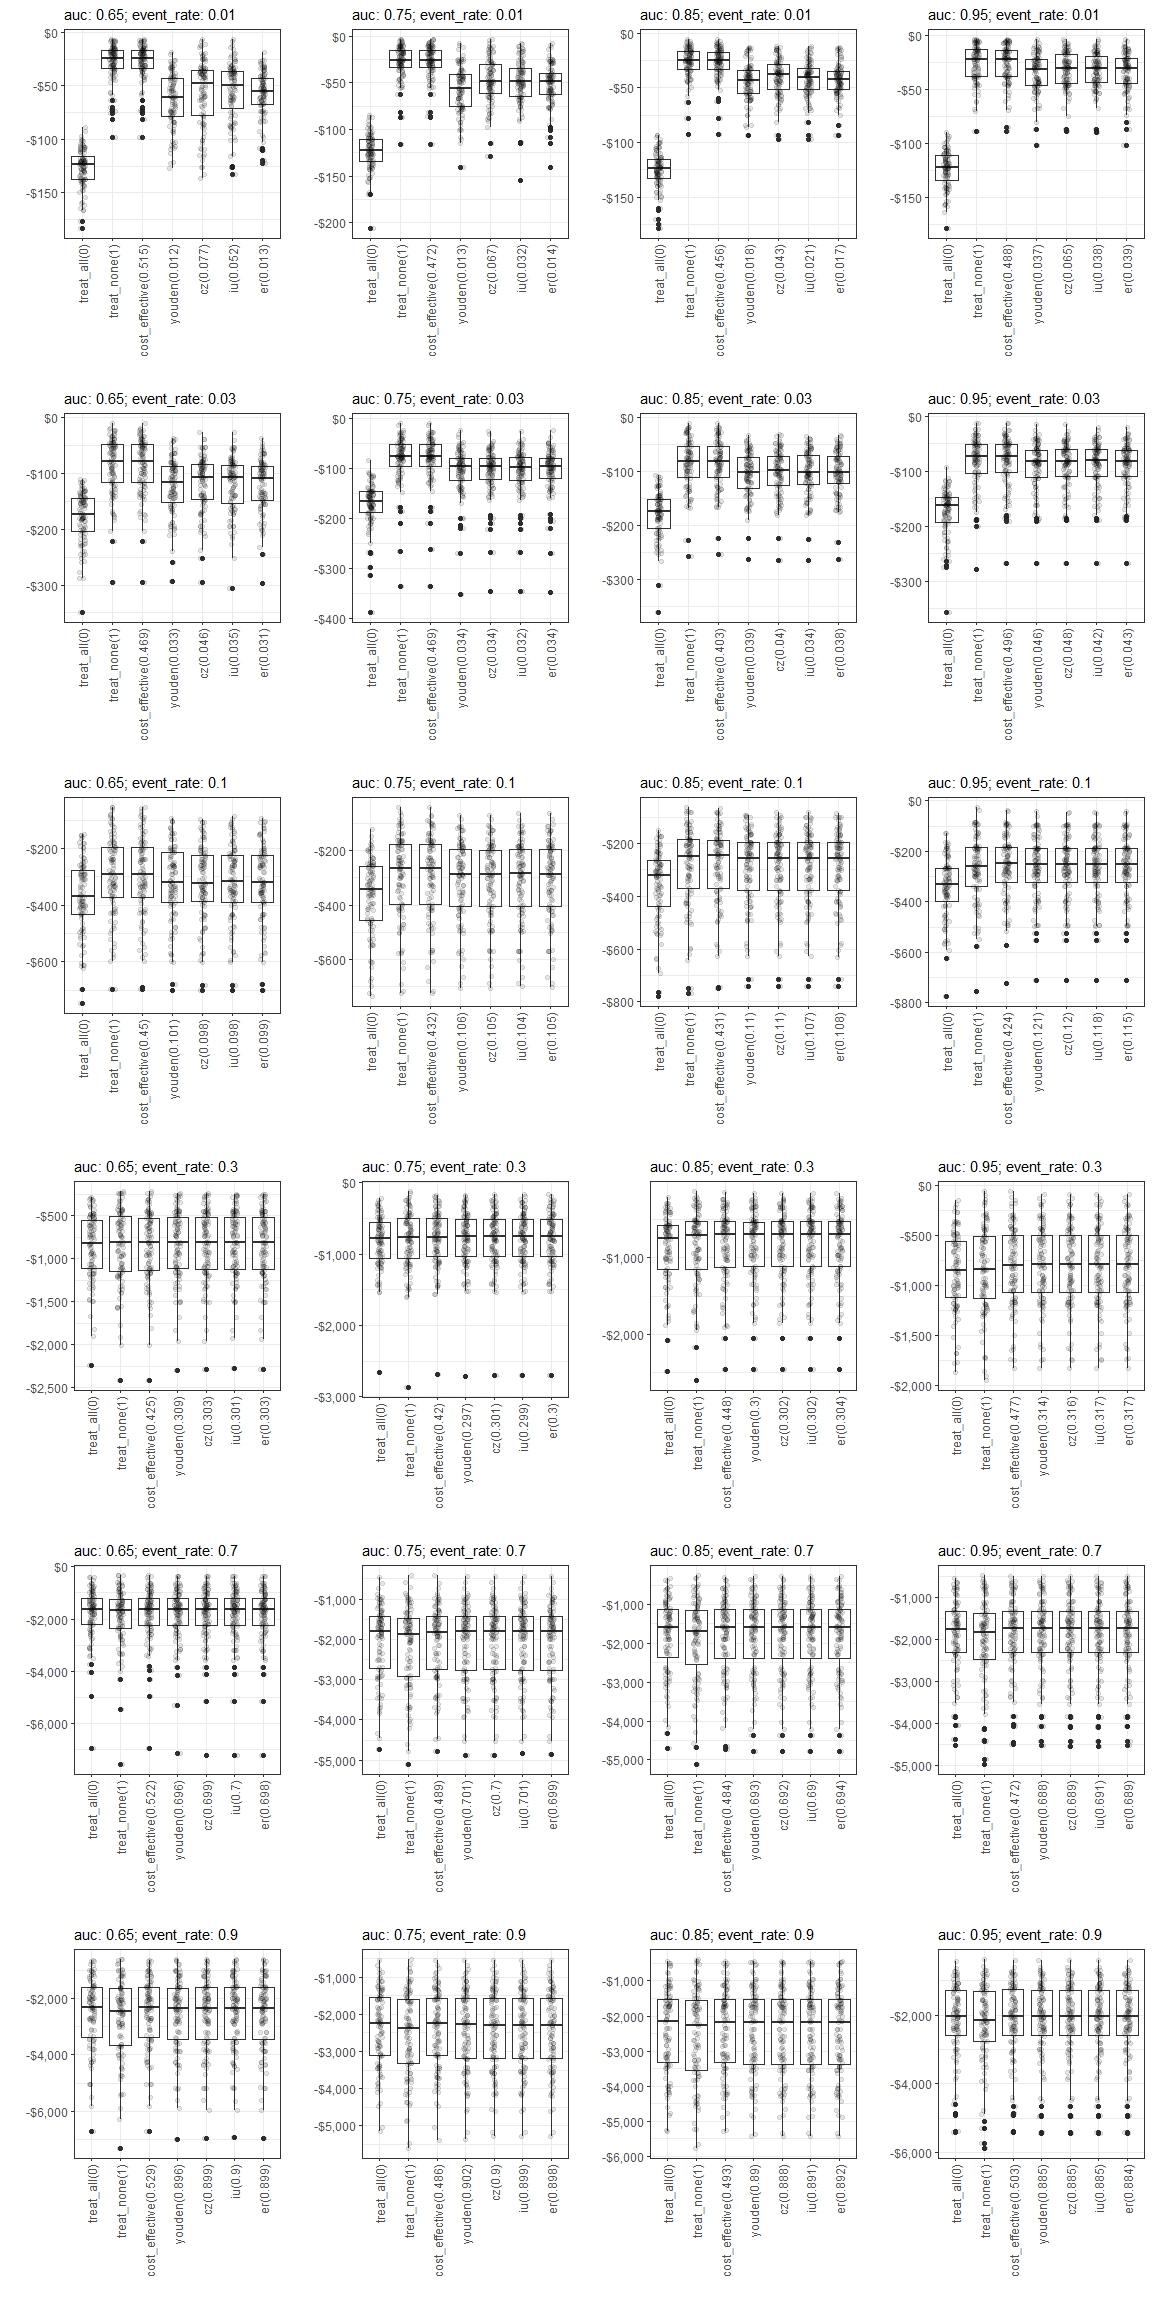
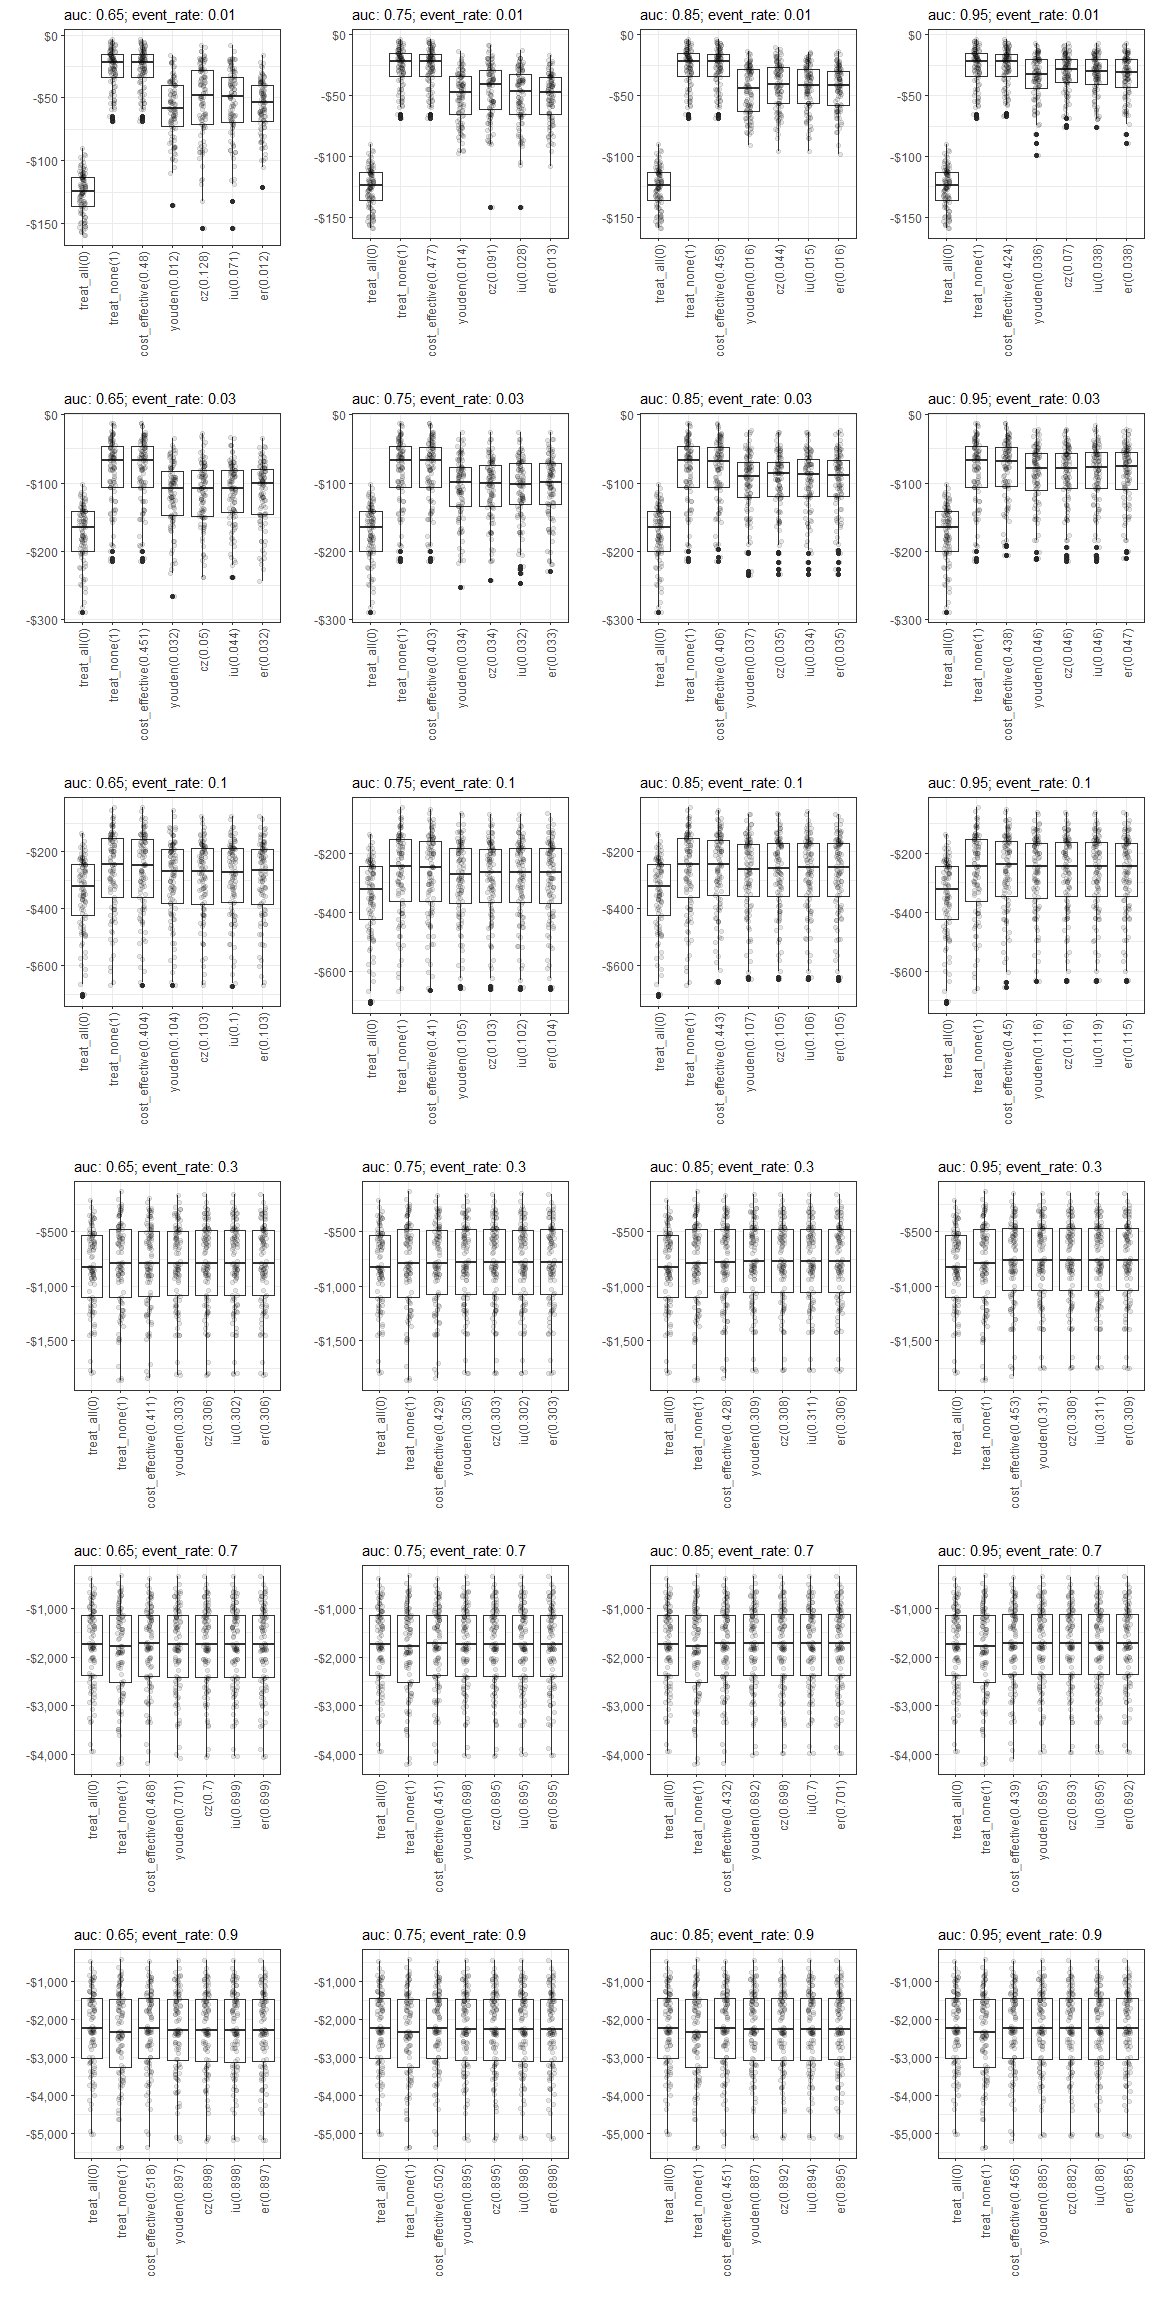
run simulation with and without resampling values_vector

diff --git a/experiment_1.md b/experiment_1.md
@@ -1,6 +1,6 @@
 Experiment 1
 ================
-18 February, 2022
+21 February, 2022
 
 Question: What are the differences in NMB between models where the
 Probability threshold was based on the currently available methods
@@ -78,7 +78,8 @@ get_nmb()
 ### Run simulation
 
 ``` r
-do_simulation <- function(sample_size, n_sims, n_valid, sim_auc, event_rate, fx_costs, get_what=c("data", "plot")){
+do_simulation <- function(sample_size, n_sims, n_valid, sim_auc, event_rate, fx_costs, resample_values=TRUE, get_what=c("data", "plot"), seed=42){
+  if(!is.null(seed)) set.seed(seed)
   df_result <- data.frame()
   df_thresholds <- data.frame()
   
@@ -104,7 +105,9 @@ do_simulation <- function(sample_size, n_sims, n_valid, sim_auc, event_rate, fx_
       costs=value_vector
     )
     
-    value_vector <- fx_costs()
+    if(resample_values){
+      value_vector <- fx_costs()
+    }
     
     cost_threshold <- function(pt){
       classify_samples(
@@ -175,7 +178,7 @@ do_simulation <- function(sample_size, n_sims, n_valid, sim_auc, event_rate, fx_
   }
 }
 
-# do_simulation(sample_size=500, n_sims=20, n_valid=1000, sim_auc=0.65, event_rate=0.03, fx_costs=get_nmb, get_what=c("data", "plot"))
+# do_simulation(sample_size=500, n_sims=20, n_valid=1000, sim_auc=0.65, event_rate=0.03, fx_costs=get_nmb, resample_costs=TRUE, get_what=c("data", "plot"))
 
 # p_list <- lapply(c(0.03, 0.1, 0.5, 0.9, 0.97), function(x)do_simulation(sample_size=500, n_sims=100, n_valid=1000, sim_auc=0.65, event_rate=x, fx_costs=get_costs, get_what="plot"))
 # p_list
@@ -212,17 +215,33 @@ invisible(clusterEvalQ(cl, {
 }))
 
 
-ll <- parallel::parLapply(
+ll1 <- parallel::parLapply(
   cl,
   1:nrow(g),
   function(i) do_simulation(
     sample_size=500, n_sims=100, n_valid=1000,
     sim_auc=g$sim_auc[i], event_rate=g$event_rate[i],
-    fx_costs=get_nmb, get_what="plot"
+    fx_costs=get_nmb, get_what="plot", resample_values=TRUE
   )
 )
 
-cowplot::plot_grid(plotlist=ll, ncol=length(unique(g$sim_auc)))
+ll2 <- parallel::parLapply(
+  cl,
+  1:nrow(g),
+  function(i) do_simulation(
+    sample_size=500, n_sims=100, n_valid=1000,
+    sim_auc=g$sim_auc[i], event_rate=g$event_rate[i],
+    fx_costs=get_nmb, get_what="plot", resample_values=FALSE
+  )
+)
+
+cowplot::plot_grid(plotlist=ll1, ncol=length(unique(g$sim_auc)))
 ```
 
 ![](experiment_1_files/figure-gfm/unnamed-chunk-4-1.png)<!-- -->
+
+``` r
+cowplot::plot_grid(plotlist=ll2, ncol=length(unique(g$sim_auc)))
+```
+
+![](experiment_1_files/figure-gfm/unnamed-chunk-4-2.png)<!-- -->
